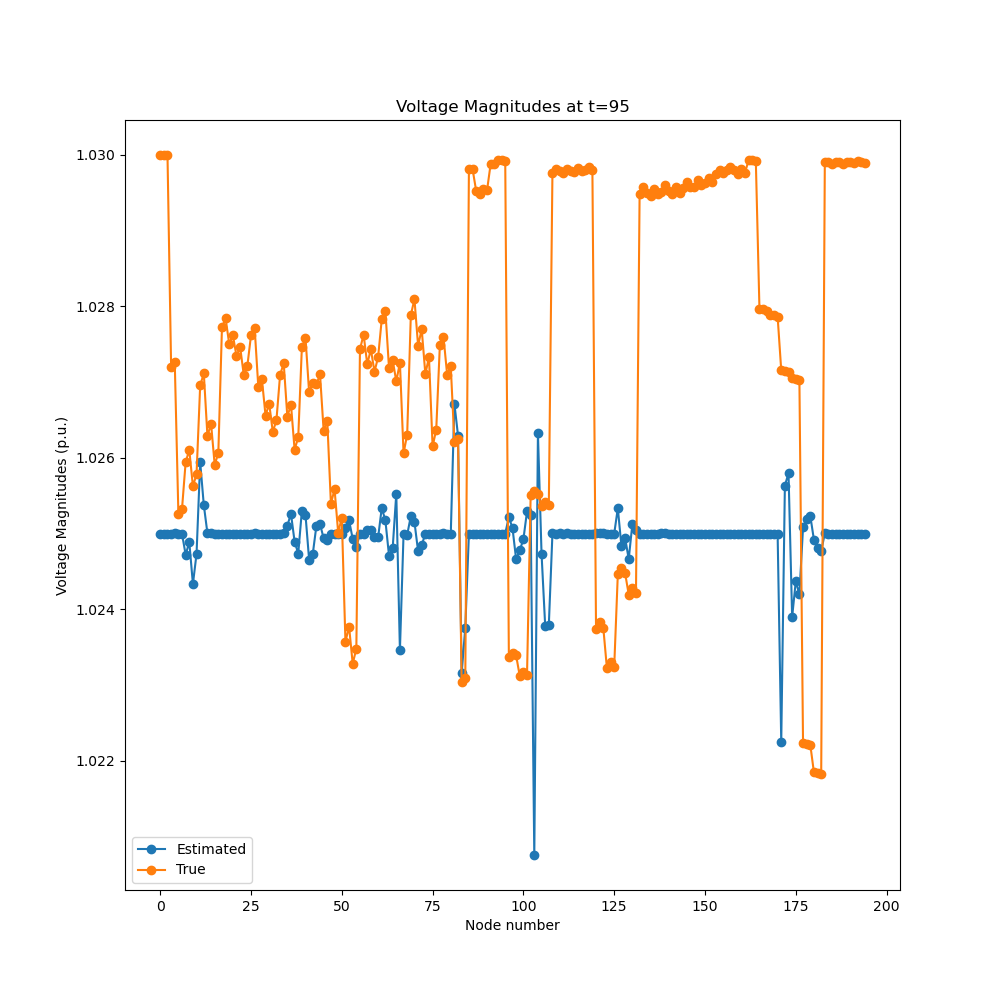
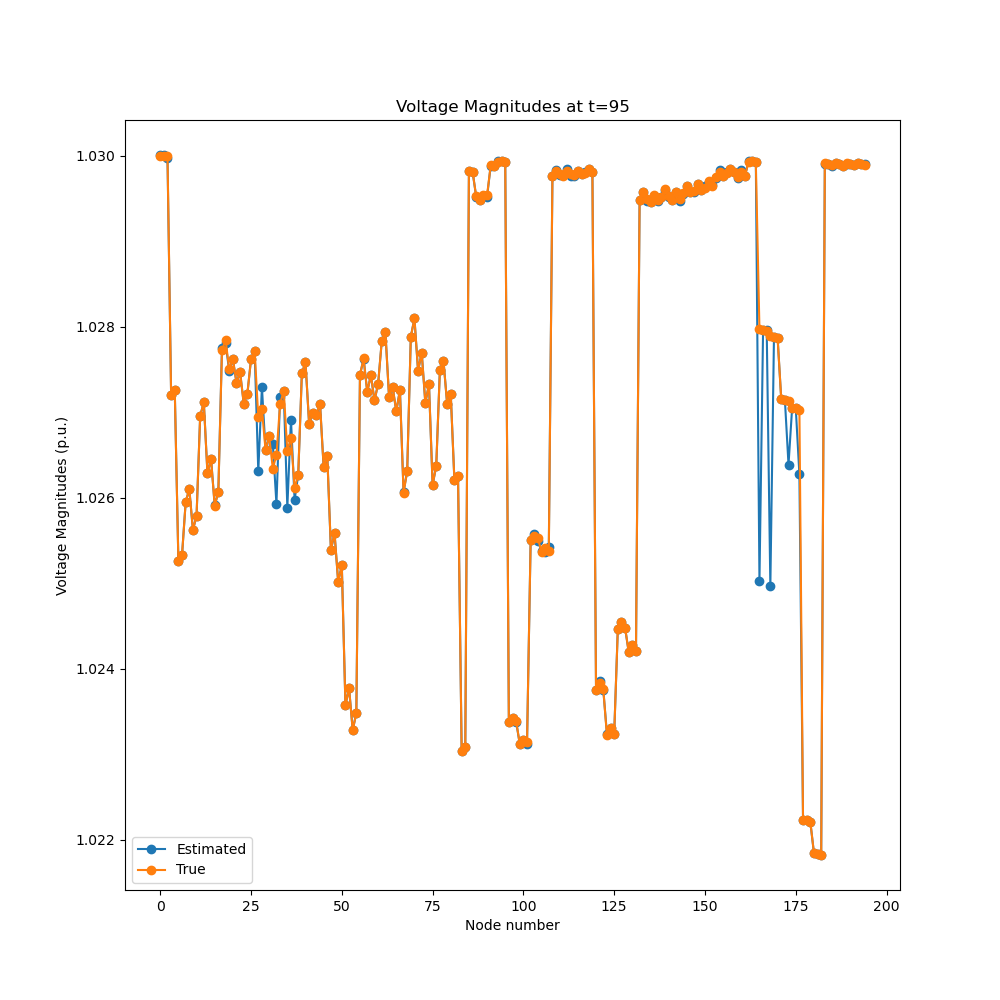
Change bounds and rerun tests

diff --git a/wls_federate/state_estimator_federate.py b/wls_federate/state_estimator_federate.py
@@ -12,7 +12,8 @@ import helics as h
 import json
 import numpy as np
 from pydantic import BaseModel
-from typing import List
+from enum import Enum
+from typing import List, Optional
 from scipy.optimize import least_squares
 
 logger = logging.getLogger(__name__)
@@ -102,13 +103,26 @@ def get_indices(topology, labelled_array):
     inv_map = {v: i for i, v in enumerate(topology.unique_ids)}
     return [inv_map[v] for v in labelled_array.unique_ids]
 
+class UnitSystem(str, Enum):
+    SI = 'SI'
+    PER_UNIT = 'PER_UNIT'
 
-def state_estimator(topology, P, Q, V, initial_ang=0, initial_V=1, slack_index=0):
+class AlgorithmParameters(BaseModel):
+    tol: float = 5e-7
+    units: UnitSystem = UnitSystem.PER_UNIT
+    base_power: Optional[float] = 100.0
+
+    class Config:
+        use_enum_values = True
+
+def state_estimator(parameters: AlgorithmParameters, topology, P, Q, V, initial_ang=0, initial_V=1, slack_index=0):
     """Estimates voltage magnitude and angle from topology, partial power injections
     P + Q i, and lossy partial voltage magnitude.
 
     Parameters
     ----------
+    parameters : AlgorithmParameters
+        Miscellaneous parameters for algorithm: tolerance, unit-system, etc.
     topology : Topology
         topology includes: Y-matrix, some initial phases, and unique ids
     P : LabelledArray
@@ -119,21 +133,34 @@ def state_estimator(topology, P, Q, V, initial_ang=0, initial_V=1, slack_index=0
         Voltage magnitude with unique ids
     """
     num_node = len(topology.unique_ids)
-    base_power = 100
     base_voltages = np.array(topology.base_voltages)
     logging.debug("Number of Nodes")
     logging.debug(num_node)
     knownP = get_indices(topology, P)
     knownQ = get_indices(topology, Q)
     knownV = get_indices(topology, V)
-#    z = np.concatenate((
-#        V.array, -1000*np.array(P.array), -1000*np.array(Q.array)
-#    ), axis=0)
-    z = np.concatenate((
-        V.array / base_voltages[knownV],
-        -np.array(P.array) / base_power,
-        -np.array(Q.array) / base_power
-    ), axis=0)
+
+    if parameters.units == UnitSystem.SI:
+        z = np.concatenate((
+            V.array, -1000*np.array(P.array), -1000*np.array(Q.array)
+        ), axis=0)
+        Y = matrix_to_numpy(topology.y_matrix)
+    elif parameters.units == UnitSystem.PER_UNIT:
+        base_power = 100
+        if parameters.base_power != None:
+            base_power = parameters.base_power
+        z = np.concatenate((
+            V.array / base_voltages[knownV],
+            -np.array(P.array) / base_power,
+            -np.array(Q.array) / base_power
+        ), axis=0)
+        Y = matrix_to_numpy(topology.y_matrix)
+        # Hand-crafted unit conversion (check it, it works)
+        Y = base_voltages.reshape(1, -1) * Y * \
+            base_voltages.reshape(-1, 1) / (base_power * 1000)
+    else:
+        raise Exception(f"Unit system {parameters.units} not supported")
+    tol = parameters.tol
     
     if type(initial_ang) != np.ndarray:
         delta = np.full(num_node, initial_ang)
@@ -150,14 +177,12 @@ def state_estimator(topology, P, Q, V, initial_ang=0, initial_V=1, slack_index=0
     logging.debug(delta)
     X0 = np.concatenate((delta, Vabs))
     logging.debug(X0)
-    Y = matrix_to_numpy(topology.y_matrix)
-    Y = base_voltages.reshape(1, -1) * Y * \
-        base_voltages.reshape(-1, 1) / (base_power * 1000)
-    tol = 5e-7
     # Weights are ignored since errors are sampled from Gaussian
+    # Real dimension of solutions is
+    # 2 * num_node - len(knownP) - len(knownV) - len(knownQ)
     if len(knownP) + len(knownV) + len(knownQ) < num_node * 2:
         #If not observable 
-        low_limit = np.concatenate((np.ones(num_node)* (- np.pi + np.pi/6),
+        low_limit = np.concatenate((np.ones(num_node)* (- np.pi - np.pi/6),
                                     np.ones(num_node)*0.95))
         up_limit = np.concatenate((np.ones(num_node)* (np.pi + np.pi/6),
                                     np.ones(num_node)*1.05))
@@ -173,7 +198,6 @@ def state_estimator(topology, P, Q, V, initial_ang=0, initial_V=1, slack_index=0
             gtol=tol,
             args=(z, num_node, knownP, knownQ, knownV, Y),
         )
-    # Weights are ignored since errors are sampled from Gaussian
     else:
         res_1 = least_squares(
             residual,
@@ -194,14 +218,20 @@ def state_estimator(topology, P, Q, V, initial_ang=0, initial_V=1, slack_index=0
     logging.debug("vmagestDecen")
     logging.debug(vmagestDecen)
     vangestDecen = vangestDecen - vangestDecen[slack_index]
-    return vmagestDecen*(base_voltages), vangestDecen
+    if parameters.units == UnitSystem.SI:
+        return vmagestDecen, vangestDecen
+    elif parameters.units == UnitSystem.PER_UNIT:
+        return vmagestDecen*(base_voltages), vangestDecen
+
 
 
 class StateEstimatorFederate:
     "State estimator federate. Wraps state_estimation with pubs and subs"
-    def __init__(self, federate_name, input_mapping):
+    def __init__(self, federate_name, algorithm_parameters: AlgorithmParameters, input_mapping):
         "Initializes federate with name and remaps input into subscriptions"
         deltat = 0.1
+
+        self.algorithm_parameters = algorithm_parameters
 
         # Create Federate Info object that describes the federate properties #
         fedinfo = h.helicsCreateFederateInfo()
@@ -257,7 +287,7 @@ class StateEstimatorFederate:
             slack_index = topology.unique_ids.index(topology.slack_bus[0])
 
             if self.initial_V is None:
-                self.initial_V = 1.025#*np.array(topology.base_voltages)
+                self.initial_V = 1.025 #*np.array(topology.base_voltages)
             if self.initial_ang is None:
                 self.initial_ang = np.array(topology.phases)
 
@@ -267,6 +297,7 @@ class StateEstimatorFederate:
             power_Q = LabelledArray.parse_obj(self.sub_power_Q.json)
 
             voltage_magnitudes, voltage_angles = state_estimator(
+                self.algorithm_parameters,
                 topology, power_P, power_Q, voltages, initial_V=self.initial_V,
                 initial_ang=self.initial_ang, slack_index=slack_index
             )
@@ -296,9 +327,18 @@ if __name__ == "__main__":
     with open("static_inputs.json") as f:
         config = json.load(f)
         federate_name = config["name"]
+        if "algorithm_parameters" in config:
+            parameters = AlgorithmParameters.parse_obj(config["algorithm_parameters"])
+        else:
+            parameters = AlgorithmParameters.parse_obj({})
+
 
     with open("input_mapping.json") as f:
         input_mapping = json.load(f)
 
-    sfed = StateEstimatorFederate(federate_name, input_mapping)
+    sfed = StateEstimatorFederate(
+        federate_name,
+        parameters,
+        input_mapping
+    )
     sfed.run()
